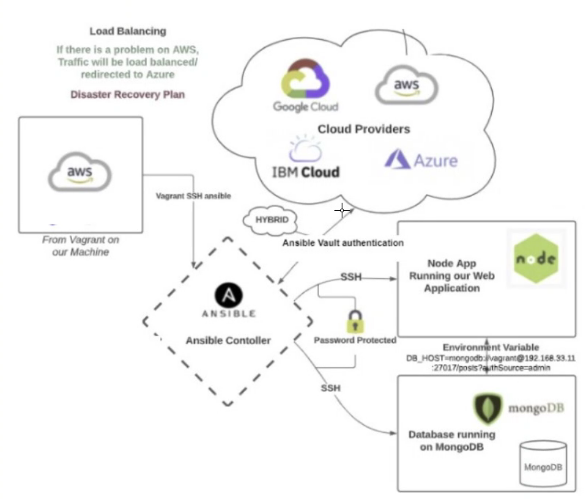
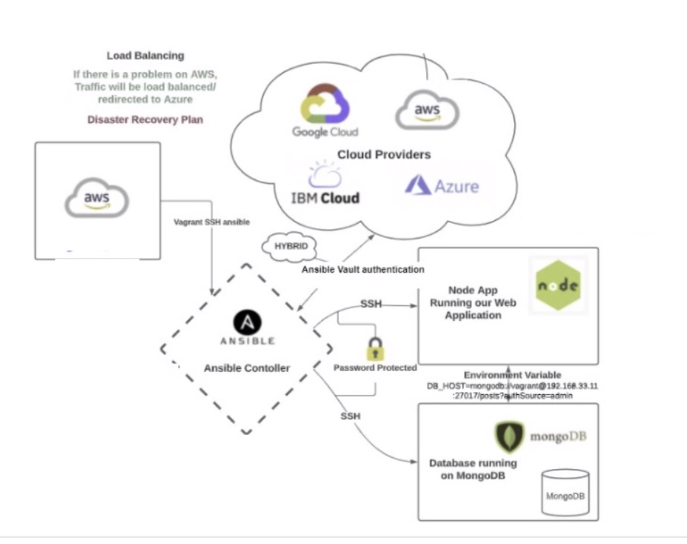
ansible

diff --git a/README.md b/README.md
@@ -1,6 +1,16 @@
 # Infrastructure as Code:
 
-The practice of managing and provisioning infrastructure (e.g., servers, networks, databases) using code and automation scripts, allowing for consistent, repeatable, and version-controlled infrastructure deployments.
+The practice of managing and provisioning infrastructure (e.g., servers, networks, databases) using code and automation scripts.
+
+This allows for consistent, repeatable, and version-controlled infrastructure deployments.
+
+## How is it made:
+
+- In IaC, configurations files are created that contain your infrastructure specifications. 
+- This makes it easier to edit and distrubute configurations.
+- Also ensures your provision every environment the same.
+- By codifying and documenting your configuration specifications, IaC aids configuration management.
+- Helps to avoid undocumented, ad-hoc configuration changes.
 
 ### Example:
 
@@ -10,8 +20,13 @@ Any script that helps us build infrascture is IaC.
 
 # Configuration Management:
 
-The practice of systematically managing and maintaining the configuration (settings, parameters, and software versions) of IT systems and infrastructure to ensure consistency, reliability, and efficient operation while allowing for changes and updates to be tracked and controlled.
+The practice of systematically managing and maintaining the configuration (settings, parameters, and software versions) to keep IT systems and infrastructure in a desired state.
+
+Ensure consistency, reliability, and efficient operation while allowing for changes and updates to be tracked and controlled.
 
 # Orchestration:
 
-Orchestration is the automated coordination and management of multiple tasks, processes, or services to achieve a specific goal or workflow, often in a complex and interconnected system. It involves sequencing and monitoring actions to ensure they are executed in a coordinated and efficient manner.
+- The automated coordination, configuration, and management of multiple tasks, processes, or services. 
+- Helps to achieve a specific goal or workflow. 
+- As servers and applications scale, so does managing all moving parts.
+- The need to combine multiple automated tasks and their configurations across of groups of systems / machines increases.

diff --git a/ANSIBLE/README.md b/ANSIBLE/README.md
@@ -9,8 +9,6 @@
 
 Use Ansible automation to install software, automate daily tasks, provision infrastructure, improve security and compliance, patch systems, and share automation across your organization.
 
-
-
 ## How does it work?
 
 - Ansible connects to your nodes and pushes out small programs - "modules" - to these nodes.
@@ -21,11 +19,16 @@ Use Ansible automation to install software, automate daily tasks, provision infr
 
 ### Agentless
 
-- The nodes that ansible manages do not require any software to be installed on them.
+- The nodes that ansible manages do not requ    ire any software to be installed on them.
 - Ansible uses SSH protocl to connect to servers and run tasks.
 - Once connected, it transfers the mopdules required by your command or playbook to the remote machine(s) for execution.
 - Uses YAML templates so users can program repetitive tasks to happen automatically.
 
-
+## Diagram:
 
 ![img.png](ansible_images/ansible_diag_1.png)
+
+1. An instance on the cloud.
+2. Can SSH into the Ansible controller.
+3. These are our instances that Ansible can connect to via SSH. From here it can configure management.
+4. Ansible vault is where all keys for each of the instances are kept, meaning that Ansible can connect to any and all cloud providers at the same time.
